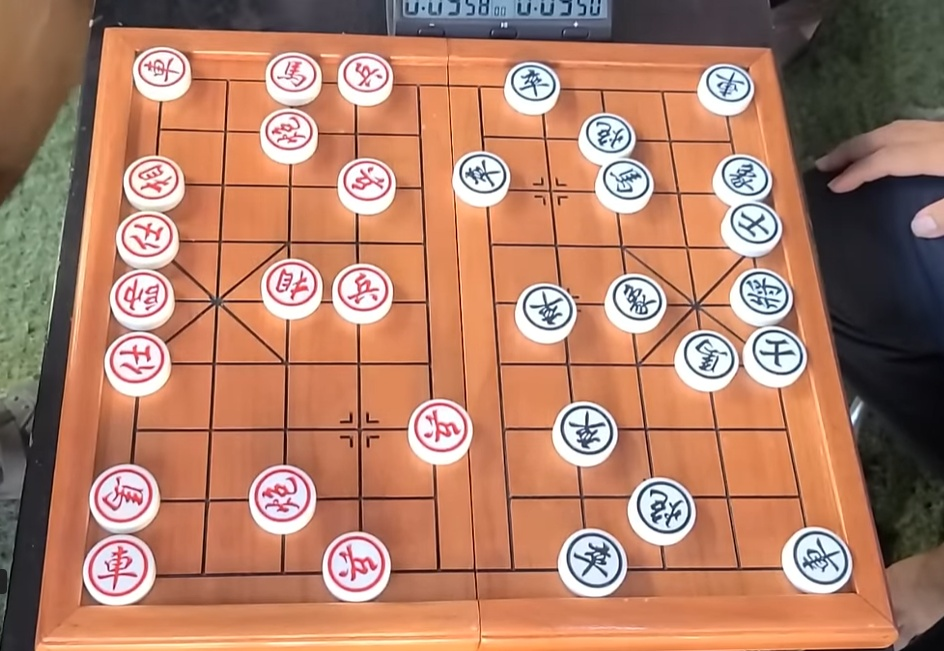
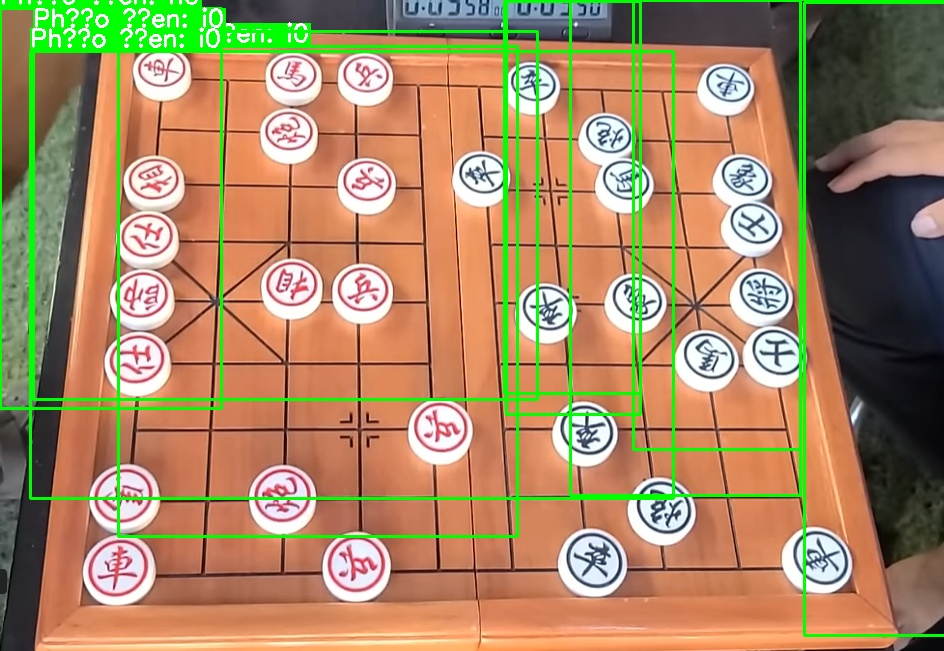
update

Changed region(s): [[0.0, 0.0, 1.0, 0.9831]]

diff --git a/detection.py b/detection.py
@@ -183,17 +183,25 @@ def detect_pieces(image_path):
         # 1. Ảnh gốc
         processed_images.append(image.copy())
         
-        # 2. Tăng độ tương phản
-        contrast_enhanced = cv2.convertScaleAbs(image, alpha=1.2, beta=0)
+        # 2. Tăng độ tương phản mạnh hơn
+        contrast_enhanced = cv2.convertScaleAbs(image, alpha=1.5, beta=10)
         processed_images.append(contrast_enhanced)
         
-        # 3. Cân bằng màu
+        # 3. Cân bằng màu với CLAHE mạnh hơn
         lab = cv2.cvtColor(image, cv2.COLOR_BGR2LAB)
         l, a, b = cv2.split(lab)
-        clahe = cv2.createCLAHE(clipLimit=3.0, tileGridSize=(8,8))
+        clahe = cv2.createCLAHE(clipLimit=4.0, tileGridSize=(8,8))
         cl = clahe.apply(l)
         enhanced_lab = cv2.merge((cl,a,b))
         color_enhanced = cv2.cvtColor(enhanced_lab, cv2.COLOR_LAB2BGR)
+        
+        # 4. Tăng độ sắc nét
+        kernel = np.array([[-1,-1,-1], [-1,9,-1], [-1,-1,-1]])
+        sharpened = cv2.filter2D(image, -1, kernel)
+        processed_images.append(sharpened)
+        
+        # 5. Kết hợp CLAHE với sharpening
+        sharp_enhanced = cv2.filter2D(color_enhanced, -1, kernel)
         processed_images.append(color_enhanced)
         
         # Thử với mỗi phiên bản ảnh và mỗi kích thước
@@ -215,12 +223,30 @@ def detect_pieces(image_path):
                 # Inference với các tham số
                 with torch.amp.autocast('cuda'):
                     results = model(image_padded,
-                                  conf=0.01,    # Confidence thấp để bắt tất cả khả năng
-                                  iou=0.5,      # IoU cao để tránh trùng lặp
-                                  max_det=32,    # Số quân cờ tối đa
-                                  half=True)     # Sử dụng FP16
+                                  conf=0.15,    # Giảm ngưỡng confidence để bắt được nhiều quân hơn
+                                  iou=0.45,     # Tăng IoU để lọc trùng lặp tốt hơn
+                                  max_det=32,   # Số quân cờ tối đa
+                                  agnostic_nms=False,  # Tắt agnostic_nms để phân biệt các class
+                                  half=True)    # Sử dụng FP16
                     
-                all_detections.extend(results[0].boxes)
+                # Thêm detection với điều kiện phù hợp
+                for box in results[0].boxes:
+                    conf = float(box.conf)
+                    if conf >= 0.15:  # Chỉ lấy các detection có độ tin cậy đủ cao
+                        # Kiểm tra xem detection này có trùng với detection nào trước đó không
+                        x, y, w, h = box.xywh[0]
+                        is_duplicate = False
+                        for existing_box in all_detections:
+                            ex_x, ex_y, ex_w, ex_h = existing_box.xywh[0]
+                            # Tính khoảng cách giữa tâm của 2 box
+                            distance = ((x - ex_x) ** 2 + (y - ex_y) ** 2) ** 0.5
+                            if distance < min(w, h) * 0.5:  # Nếu quá gần nhau
+                                if conf <= float(existing_box.conf):  # Và confidence thấp hơn
+                                    is_duplicate = True
+                                    break
+                        
+                        if not is_duplicate:
+                            all_detections.append(box)
                 
         # Gộp và lọc kết quả
         results = [results[0]]  # Giữ lại kết quả cuối để dùng cho phần sau
@@ -265,13 +291,25 @@ def detect_pieces(image_path):
     # Ánh xạ quân cờ
     board_state = map_to_board(results[0].boxes, grid, board_map)
     
-    # In kết quả phân tích
+    # In kết quả phân tích và tổng hợp theo màu
+    red_pieces = 0
+    black_pieces = 0
     for piece in board_state:
         piece_code = model.names[piece['piece']]
         piece_name = piece_names[piece_code]
         confidence = piece['confidence'] * 100
         position = piece['position']
         print(f"{piece_name:<12} tại {position:<4} (độ tin cậy: {confidence:>5.1f}%)")
+        
+        # Đếm số quân theo màu
+        if piece_code.startswith('r_'):
+            red_pieces += 1
+        else:
+            black_pieces += 1
+            
+    print(f"\nTổng số quân cờ: {len(board_state)}")
+    print(f"- Quân đỏ: {red_pieces}")
+    print(f"- Quân đen: {black_pieces}")
 
     # Vẽ nhãn lên ảnh
     for box in results[0].boxes:
